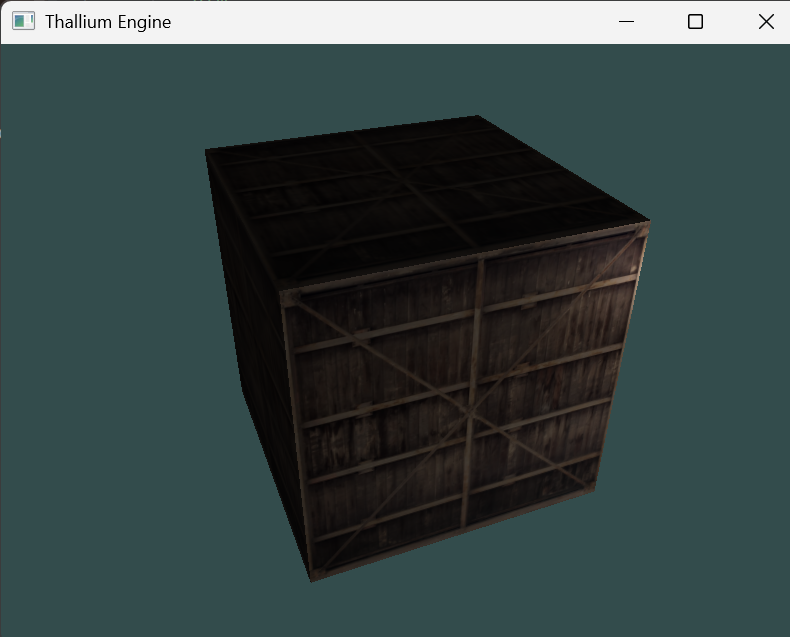
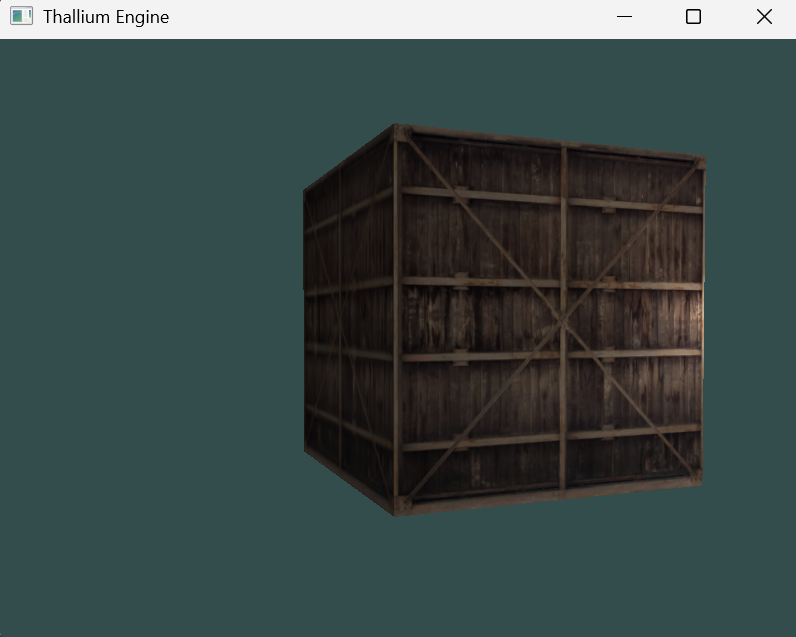
Changed ambient light strength from 0.1 to a more reasonable 0.25

Changed region(s): [[0.243, 0.179, 0.9114, 0.9246], [0.0, 0.0, 1.0, 0.0895]]

diff --git a/src/core/application.cpp b/src/core/application.cpp
@@ -146,7 +146,7 @@ int main()
     standardShader.setVec3("lightPos", glm::vec3(1.0f, 0.0f, 1.0f));
     standardShader.setVec3("lightColor", glm::vec3(1.0f));
 
-    standardShader.setFloat("ambientStrength", 0.1f);
+    standardShader.setFloat("ambientStrength", 0.25f);
     standardShader.setFloat("roughness", 0.5f);
     standardShader.setInt("specularExponent", 32);
 
